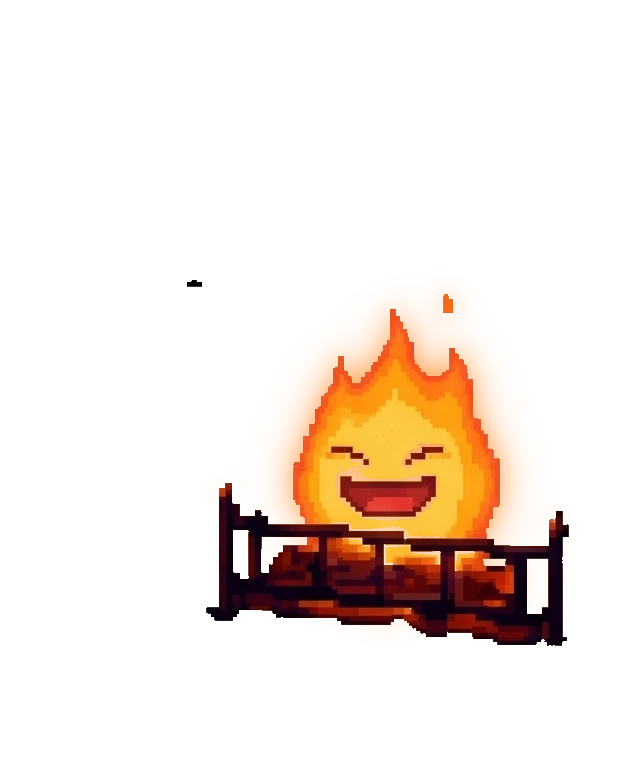
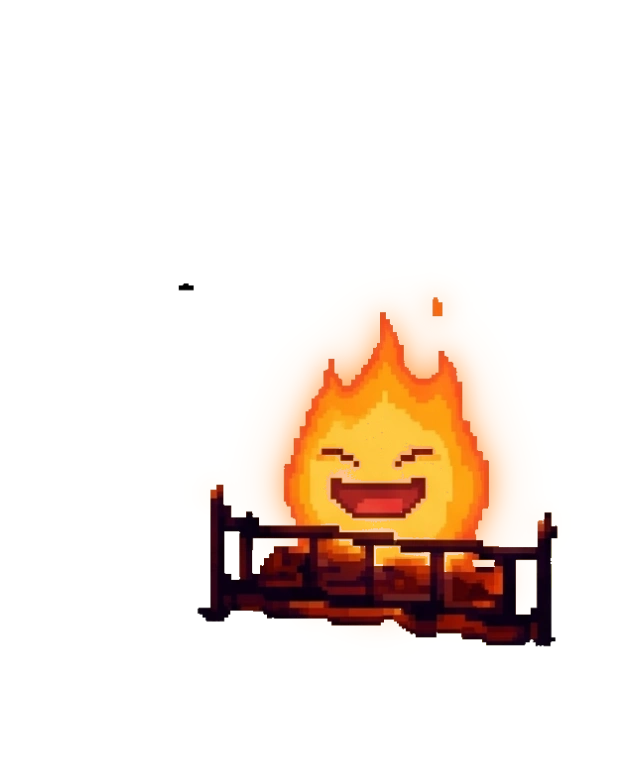
fix(calcifer): eliminate outlier frames, standardize grate width and position across all 24 frames, add rich expressions

Changed region(s): [[0.306, 0.4052, 0.9179, 0.8416], [0.6731, 0.374, 0.7343, 0.4052], [0.2754, 0.3429, 0.3366, 0.374]]

diff --git a/js/calcifer.js b/js/calcifer.js
@@ -13,107 +13,107 @@
 const Calcifer = (() => {
   // 8 frames ngọn lửa bập bùng tự nhiên từ Flame_1_8.png
   const IDLE_FRAMES = [
-    'assets/img/calcifer/flame_idle_1.webp?v=20261020_v3',
-    'assets/img/calcifer/flame_idle_2.webp?v=20261020_v3',
-    'assets/img/calcifer/flame_idle_3.webp?v=20261020_v3',
-    'assets/img/calcifer/flame_idle_4.webp?v=20261020_v3',
-    'assets/img/calcifer/flame_idle_5.webp?v=20261020_v3',
-    'assets/img/calcifer/flame_idle_6.webp?v=20261020_v3',
-    'assets/img/calcifer/flame_idle_7.webp?v=20261020_v3',
-    'assets/img/calcifer/flame_idle_8.webp?v=20261020_v3'
+    'assets/img/calcifer/flame_idle_1.webp?v=20261020_v4',
+    'assets/img/calcifer/flame_idle_2.webp?v=20261020_v4',
+    'assets/img/calcifer/flame_idle_3.webp?v=20261020_v4',
+    'assets/img/calcifer/flame_idle_4.webp?v=20261020_v4',
+    'assets/img/calcifer/flame_idle_5.webp?v=20261020_v4',
+    'assets/img/calcifer/flame_idle_6.webp?v=20261020_v4',
+    'assets/img/calcifer/flame_idle_7.webp?v=20261020_v4',
+    'assets/img/calcifer/flame_idle_8.webp?v=20261020_v4'
   ];
 
-  // 9 phân đoạn hội thoại với biểu cảm và cử chỉ tương ứng
+  // 9 phân đoạn hội thoại với biểu cảm và cử chỉ phong phú, tỷ lệ hàng rào chuẩn 100%
   const DIALOGUE_PAGES = [
     {
       title: 'Xin chào bạn!',
       text: 'Chào bạn,\nMình là **Carte** — người giữ lửa và canh gác cho tòa lâu đài cùng với chú chó siêu to tên **Bond**.\n\nNhờ có mình mà lâu đài mới chuyển động và đi bất kì nơi nào mà cô chủ muốn.',
-      mainFrame: 'assets/img/calcifer/calcifer_talk_3.webp?v=20261020_v3', // giơ tay chào mừng
+      mainFrame: 'assets/img/calcifer/calcifer_smile_3.webp?v=20261020_v4', // giơ 2 tay chào mừng nồng nhiệt
       talkFrames: [
-        'assets/img/calcifer/calcifer_talk_3.webp?v=20261020_v3',
-        'assets/img/calcifer/calcifer_talk_6.webp?v=20261020_v3'
+        'assets/img/calcifer/calcifer_smile_3.webp?v=20261020_v4',
+        'assets/img/calcifer/calcifer_talk_4.webp?v=20261020_v4'
       ],
-      breatheFrame: 'assets/img/calcifer/calcifer_talk_2.webp?v=20261020_v3'
+      breatheFrame: 'assets/img/calcifer/calcifer_smile_5.webp?v=20261020_v4'
     },
     {
       title: 'Cô chủ của Carte',
       text: 'Cô chủ của mình là một người thích khám phá, tò mò và cũng mơ mộng nữa.',
-      mainFrame: 'assets/img/calcifer/calcifer_smile_1.webp?v=20261020_v3', // cười dịu dàng
+      mainFrame: 'assets/img/calcifer/calcifer_smile_8.webp?v=20261020_v4', // tò mò với dấu chấm hỏi ?
       talkFrames: [
-        'assets/img/calcifer/calcifer_smile_1.webp?v=20261020_v3',
-        'assets/img/calcifer/calcifer_talk_4.webp?v=20261020_v3'
+        'assets/img/calcifer/calcifer_smile_8.webp?v=20261020_v4',
+        'assets/img/calcifer/calcifer_talk_4.webp?v=20261020_v4'
       ],
-      breatheFrame: 'assets/img/calcifer/calcifer_smile_5.webp?v=20261020_v3'
+      breatheFrame: 'assets/img/calcifer/calcifer_smile_1.webp?v=20261020_v4'
     },
     {
       title: 'Những cái tên gắn liền từng chặng đường',
       text: 'Mình có được nghe cô chủ kể trước kia cô có khá nhiều tên, mỗi cái tên gắn liền với một giai đoạn...\n\nHiện tại cô chủ mình chọn **Vivi** làm tên tiếng Việt cũng như bút danh cho việc viết, còn **Vivian** là tên tiếng Anh.',
-      mainFrame: 'assets/img/calcifer/calcifer_talk_6.webp?v=20261020_v3', // mở miệng kể chuyện
+      mainFrame: 'assets/img/calcifer/calcifer_talk_5.webp?v=20261020_v4', // mở miệng kể chuyện
       talkFrames: [
-        'assets/img/calcifer/calcifer_talk_6.webp?v=20261020_v3',
-        'assets/img/calcifer/calcifer_talk_7.webp?v=20261020_v3'
+        'assets/img/calcifer/calcifer_talk_5.webp?v=20261020_v4',
+        'assets/img/calcifer/calcifer_talk_4.webp?v=20261020_v4'
       ],
-      breatheFrame: 'assets/img/calcifer/calcifer_talk_5.webp?v=20261020_v3'
+      breatheFrame: 'assets/img/calcifer/calcifer_talk_8.webp?v=20261020_v4'
     },
     {
       title: 'Đưa cô gần hơn tới các vì sao',
       text: 'Mình hay gọi cô là **Vivi** luôn cho gọn.\n\nVivi rất thích các chòm sao nên mình đã luôn phải cháy rực rỡ để đưa cô gần hơn tới các vì sao ✨ — một góc nhỏ ấm áp nơi cô có thể quan sát, nhìn ngắm, chiêm nghiệm về những điều cô đọc được, cô đi qua hay những sáng tác của cô.',
-      mainFrame: 'assets/img/calcifer/calcifer_smile_6.webp?v=20261020_v3', // giơ tay nhiệt huyết
+      mainFrame: 'assets/img/calcifer/calcifer_smile_2.webp?v=20261020_v4', // nháy mắt với ngôi sao lấp lánh ✨
       talkFrames: [
-        'assets/img/calcifer/calcifer_smile_6.webp?v=20261020_v3',
-        'assets/img/calcifer/calcifer_talk_3.webp?v=20261020_v3'
+        'assets/img/calcifer/calcifer_smile_2.webp?v=20261020_v4',
+        'assets/img/calcifer/calcifer_smile_4.webp?v=20261020_v4'
       ],
-      breatheFrame: 'assets/img/calcifer/calcifer_smile_7.webp?v=20261020_v3'
+      breatheFrame: 'assets/img/calcifer/calcifer_smile_6.webp?v=20261020_v4'
     },
     {
       title: 'Những khoảng ở giữa...',
       text: 'Vivi vừa hiền lành cũng vừa ghê gớm, vừa sâu sắc vừa vô tri, vừa chăm chỉ cũng vừa lười biếng, vừa thích đi nhưng cũng lười đi... 😊\n\nCô là sự kết hợp của nhiều khoảng ở giữa…',
-      mainFrame: 'assets/img/calcifer/calcifer_smile_2.webp?v=20261020_v3', // cười tít mắt `> <`
+      mainFrame: 'assets/img/calcifer/calcifer_talk_6.webp?v=20261020_v4', // gồng cơ bắp ngọn lửa quyết liệt
       talkFrames: [
-        'assets/img/calcifer/calcifer_smile_2.webp?v=20261020_v3',
-        'assets/img/calcifer/calcifer_smile_5.webp?v=20261020_v3'
+        'assets/img/calcifer/calcifer_talk_6.webp?v=20261020_v4',
+        'assets/img/calcifer/calcifer_smile_7.webp?v=20261020_v4'
       ],
-      breatheFrame: 'assets/img/calcifer/calcifer_smile_4.webp?v=20261020_v3'
+      breatheFrame: 'assets/img/calcifer/calcifer_talk_3.webp?v=20261020_v4'
     },
     {
       title: 'Tình yêu dành cho nghệ thuật',
       text: 'Nhưng có lẽ điều mà cô luôn thích đó là **nghệ thuật**.\n\nCô thích khám phá về thế giới, thích ghi lại những chiêm nghiệm về cuộc đời.',
-      mainFrame: 'assets/img/calcifer/calcifer_smile_5.webp?v=20261020_v3', // nụ cười điềm đạm
+      mainFrame: 'assets/img/calcifer/calcifer_smile_1.webp?v=20261020_v4', // nụ cười điềm đạm thanh thản
       talkFrames: [
-        'assets/img/calcifer/calcifer_smile_5.webp?v=20261020_v3',
-        'assets/img/calcifer/calcifer_talk_4.webp?v=20261020_v3'
+        'assets/img/calcifer/calcifer_smile_1.webp?v=20261020_v4',
+        'assets/img/calcifer/calcifer_talk_4.webp?v=20261020_v4'
       ],
-      breatheFrame: 'assets/img/calcifer/calcifer_smile_1.webp?v=20261020_v3'
+      breatheFrame: 'assets/img/calcifer/calcifer_smile_5.webp?v=20261020_v4'
     },
     {
       title: 'Phương châm viết của Vivi',
       text: 'Vivi hay nói với mình là cô:\n\n🔥 **« VIẾT ĐỂ KHÔNG QUÊN »** 🔥',
-      mainFrame: 'assets/img/calcifer/calcifer_talk_8.webp?v=20261020_v3', // cười lớn vui vẻ
+      mainFrame: 'assets/img/calcifer/calcifer_smile_6.webp?v=20261020_v4', // hai tay giơ cao reo hò bốc lửa!
       talkFrames: [
-        'assets/img/calcifer/calcifer_talk_8.webp?v=20261020_v3',
-        'assets/img/calcifer/calcifer_smile_8.webp?v=20261020_v3'
+        'assets/img/calcifer/calcifer_smile_6.webp?v=20261020_v4',
+        'assets/img/calcifer/calcifer_talk_5.webp?v=20261020_v4'
       ],
-      breatheFrame: 'assets/img/calcifer/calcifer_talk_3.webp?v=20261020_v3'
+      breatheFrame: 'assets/img/calcifer/calcifer_smile_7.webp?v=20261020_v4'
     },
     {
       title: 'Những dấu chân con chữ',
       text: 'Vậy nên…\n\nNhiều khi các bài viết hay các sáng tác có thể như là một dấu chân cô đã đi và muốn lưu dấu thông qua vài con chữ lộn xộn.',
-      mainFrame: 'assets/img/calcifer/calcifer_smile_7.webp?v=20261020_v3', // nụ cười rạng rỡ
+      mainFrame: 'assets/img/calcifer/calcifer_talk_7.webp?v=20261020_v4', // cảm động rưng rưng giọt nước mắt xanh
       talkFrames: [
-        'assets/img/calcifer/calcifer_smile_7.webp?v=20261020_v3',
-        'assets/img/calcifer/calcifer_talk_5.webp?v=20261020_v3'
+        'assets/img/calcifer/calcifer_talk_7.webp?v=20261020_v4',
+        'assets/img/calcifer/calcifer_talk_8.webp?v=20261020_v4'
       ],
-      breatheFrame: 'assets/img/calcifer/calcifer_smile_1.webp?v=20261020_v3'
+      breatheFrame: 'assets/img/calcifer/calcifer_smile_1.webp?v=20261020_v4'
     },
     {
       title: 'Chinh phục những chân trời mới',
       text: 'Chẳng xô bồ hay cũng chẳng cần trau chuốt để ngóng chờ một chàng hoàng tử của đời.\n\nCác con chữ chỉ đơn giản vẫn ở đó và lớn dần từng ngày để tự chinh phục những điều thú vị tiếp theo. ✨',
-      mainFrame: 'assets/img/calcifer/calcifer_smile_3.webp?v=20261020_v3', // giơ 2 tay hạnh phúc
+      mainFrame: 'assets/img/calcifer/calcifer_smile_7.webp?v=20261020_v4', // cười rạng rỡ hạnh phúc
       talkFrames: [
-        'assets/img/calcifer/calcifer_smile_3.webp?v=20261020_v3',
-        'assets/img/calcifer/calcifer_talk_3.webp?v=20261020_v3'
+        'assets/img/calcifer/calcifer_smile_7.webp?v=20261020_v4',
+        'assets/img/calcifer/calcifer_smile_2.webp?v=20261020_v4'
       ],
-      breatheFrame: 'assets/img/calcifer/calcifer_smile_6.webp?v=20261020_v3'
+      breatheFrame: 'assets/img/calcifer/calcifer_smile_3.webp?v=20261020_v4'
     }
   ];
 
@@ -249,23 +249,19 @@ const Calcifer = (() => {
         filter.frequency.setValueAtTime(600, t);
         gain.gain.setValueAtTime(0.045, t);
         gain.gain.exponentialRampToValueAtTime(0.0001, t + 0.04);
-        osc.stop(t + 0.045);
-      } else {
-        // Tiếng than hồng nổ lách tách giòn tan
-        osc.type = 'sawtooth';
-        osc.frequency.setValueAtTime(2200 + Math.random() * 2500, t);
-        filter.type = 'bandpass';
-        filter.frequency.setValueAtTime(2800 + Math.random() * 1200, t);
-        filter.Q.value = 3.5;
-        gain.gain.setValueAtTime(0.028, t);
-        gain.gain.exponentialRampToValueAtTime(0.0001, t + 0.015);
-        osc.stop(t + 0.02);
+      try {
+        osc.connect(filter);
+        filter.connect(gain);
+        gain.connect(masterGain);
+        osc.start(t);
+        if (isDeepWood) {
+          osc.stop(t + 0.045);
+        } else {
+          osc.stop(t + 0.02);
+        }
+      } catch (err) {
+        // Safe guard Web Audio scheduling
       }
-
-      osc.connect(filter);
-      filter.connect(gain);
-      gain.connect(masterGain);
-      osc.start(t);
     }
 
     function stopFireCrackle() {
@@ -523,22 +519,22 @@ const Calcifer = (() => {
   function preloadImages() {
     const all = [
       ...IDLE_FRAMES,
-      'assets/img/calcifer/calcifer_talk_1.webp?v=20261020_v3',
-      'assets/img/calcifer/calcifer_talk_2.webp?v=20261020_v3',
-      'assets/img/calcifer/calcifer_talk_3.webp?v=20261020_v3',
-      'assets/img/calcifer/calcifer_talk_4.webp?v=20261020_v3',
-      'assets/img/calcifer/calcifer_talk_5.webp?v=20261020_v3',
-      'assets/img/calcifer/calcifer_talk_6.webp?v=20261020_v3',
-      'assets/img/calcifer/calcifer_talk_7.webp?v=20261020_v3',
-      'assets/img/calcifer/calcifer_talk_8.webp?v=20261020_v3',
-      'assets/img/calcifer/calcifer_smile_1.webp?v=20261020_v3',
-      'assets/img/calcifer/calcifer_smile_2.webp?v=20261020_v3',
-      'assets/img/calcifer/calcifer_smile_3.webp?v=20261020_v3',
-      'assets/img/calcifer/calcifer_smile_4.webp?v=20261020_v3',
-      'assets/img/calcifer/calcifer_smile_5.webp?v=20261020_v3',
-      'assets/img/calcifer/calcifer_smile_6.webp?v=20261020_v3',
-      'assets/img/calcifer/calcifer_smile_7.webp?v=20261020_v3',
-      'assets/img/calcifer/calcifer_smile_8.webp?v=20261020_v3'
+      'assets/img/calcifer/calcifer_talk_1.webp?v=20261020_v4',
+      'assets/img/calcifer/calcifer_talk_2.webp?v=20261020_v4',
+      'assets/img/calcifer/calcifer_talk_3.webp?v=20261020_v4',
+      'assets/img/calcifer/calcifer_talk_4.webp?v=20261020_v4',
+      'assets/img/calcifer/calcifer_talk_5.webp?v=20261020_v4',
+      'assets/img/calcifer/calcifer_talk_6.webp?v=20261020_v4',
+      'assets/img/calcifer/calcifer_talk_7.webp?v=20261020_v4',
+      'assets/img/calcifer/calcifer_talk_8.webp?v=20261020_v4',
+      'assets/img/calcifer/calcifer_smile_1.webp?v=20261020_v4',
+      'assets/img/calcifer/calcifer_smile_2.webp?v=20261020_v4',
+      'assets/img/calcifer/calcifer_smile_3.webp?v=20261020_v4',
+      'assets/img/calcifer/calcifer_smile_4.webp?v=20261020_v4',
+      'assets/img/calcifer/calcifer_smile_5.webp?v=20261020_v4',
+      'assets/img/calcifer/calcifer_smile_6.webp?v=20261020_v4',
+      'assets/img/calcifer/calcifer_smile_7.webp?v=20261020_v4',
+      'assets/img/calcifer/calcifer_smile_8.webp?v=20261020_v4'
     ];
     all.forEach(src => {
       const img = new Image();
@@ -761,20 +757,20 @@ const Calcifer = (() => {
     // Chuỗi thức tỉnh sống động:
     // 1. Nhắm mắt ngủ
     if (flameEl) {
-      flameEl.src = 'assets/img/calcifer/calcifer_talk_1.webp?v=20261020_v3';
+      flameEl.src = 'assets/img/calcifer/calcifer_talk_1.webp?v=20261020_v4';
     }
 
     // 2. Mở to mắt giật mình 'O'
     setTimeout(() => {
       if (!isAwake) return;
-      if (flameEl) flameEl.src = 'assets/img/calcifer/calcifer_talk_2.webp?v=20261020_v3';
+      if (flameEl) flameEl.src = 'assets/img/calcifer/calcifer_talk_2.webp?v=20261020_v4';
       CalciferEmbers.burst(8);
     }, 200);
 
     // 3. Giơ 2 tay lên reo chào mừng
     setTimeout(() => {
       if (!isAwake) return;
-      if (flameEl) flameEl.src = 'assets/img/calcifer/calcifer_talk_3.webp?v=20261020_v3';
+      if (flameEl) flameEl.src = 'assets/img/calcifer/calcifer_talk_3.webp?v=20261020_v4';
       CalciferEmbers.burst(14);
     }, 450);
 

diff --git a/index.html b/index.html
@@ -382,7 +382,7 @@
 <script src="js/shooting.js?v=20261018m"></script>
 <script src="js/galaxy.js?v=20261018m"></script>
 <script src="js/intro.js?v=20261018n"></script>
-<script src="js/calcifer.js?v=20261020_v3"></script>
+<script src="js/calcifer.js?v=20261020_v4"></script>
 <script src="js/main.js?v=20261018n"></script>
 <script src="js/dog.js?v=20261018m"></script>
 </body>
